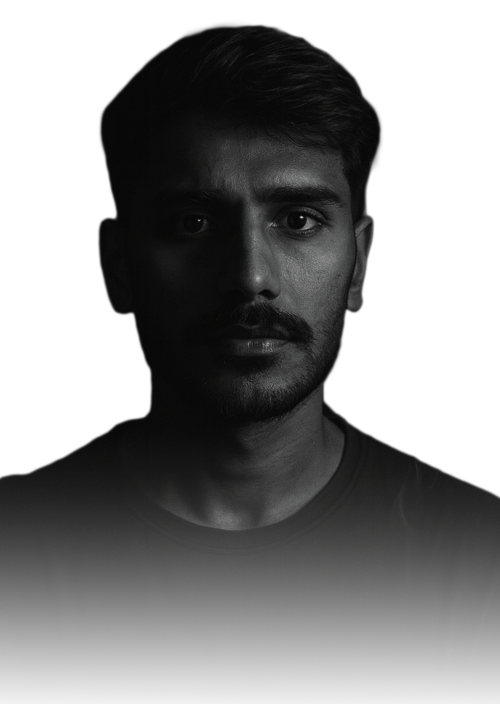
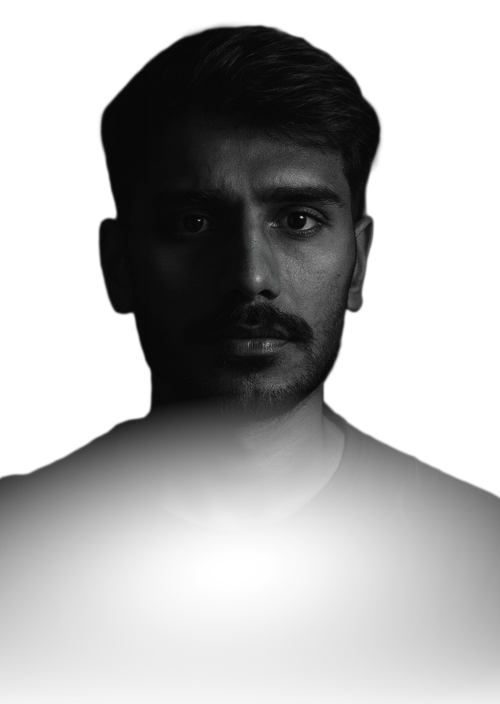
dp fix

diff --git a/src/components/dp.tsx b/src/components/dp.tsx
@@ -6,14 +6,26 @@ const info = data.info[0];
 
 const Dp = () => {
   return (
-    <div className="w-full h-auto ">
-      <div className="relative aspect-square rounded-3xl overflow-hidden ">
+    <div className="w-full h-auto">
+      <div className="relative aspect-square rounded-3xl overflow-hidden">
+        {/* Light mode image */}
         <Image
-          src={info.dp}
+          src={info.dpLight}
           alt={info.name}
           fill
-          className="object-contain opacity-90 dark:bg-blend-color dark:opacity-60"
-          sizes="(max-width: 768px) 100vw, (max-width: 1200px) 50vw, 33vw"
+          className="object-contain opacity-90 grayscale saturate-0 block dark:hidden"
+          priority
+        />
+
+        {/* Dark mode image */}
+        <Image
+          src={info.dpDark}
+          alt={info.name}
+          fill
+          className="object-contain opacity-60 hidden dark:block"
+          sizes="(max-width: 768px) 100vw, 
+             (max-width: 1200px) 50vw, 
+             33vw"
           priority
         />
       </div>

diff --git a/src/data/asset.js b/src/data/asset.js
@@ -262,7 +262,8 @@ const info = [
   {
     name: "Shihab Rahman",
     desc: "I approach design as a blend of problem-solving and storytelling. Each project begins with understanding people, their goals, and the obstacles in their way. From there, I craft interfaces that are simple, thoughtful, and grounded in real user needs, ensuring that every decision serves a clear purpose.",
-    dp: "/assets/shihab.png",
+    dpDark: "/assets/shihab.png",
+    dpLight: "/assets/shihab-Light.png",
     phone: "+917907689743",
     email: "shihabrsaleem@gmail.com",
     linkedin: "linkedin.com/in/shihab-rahman",
